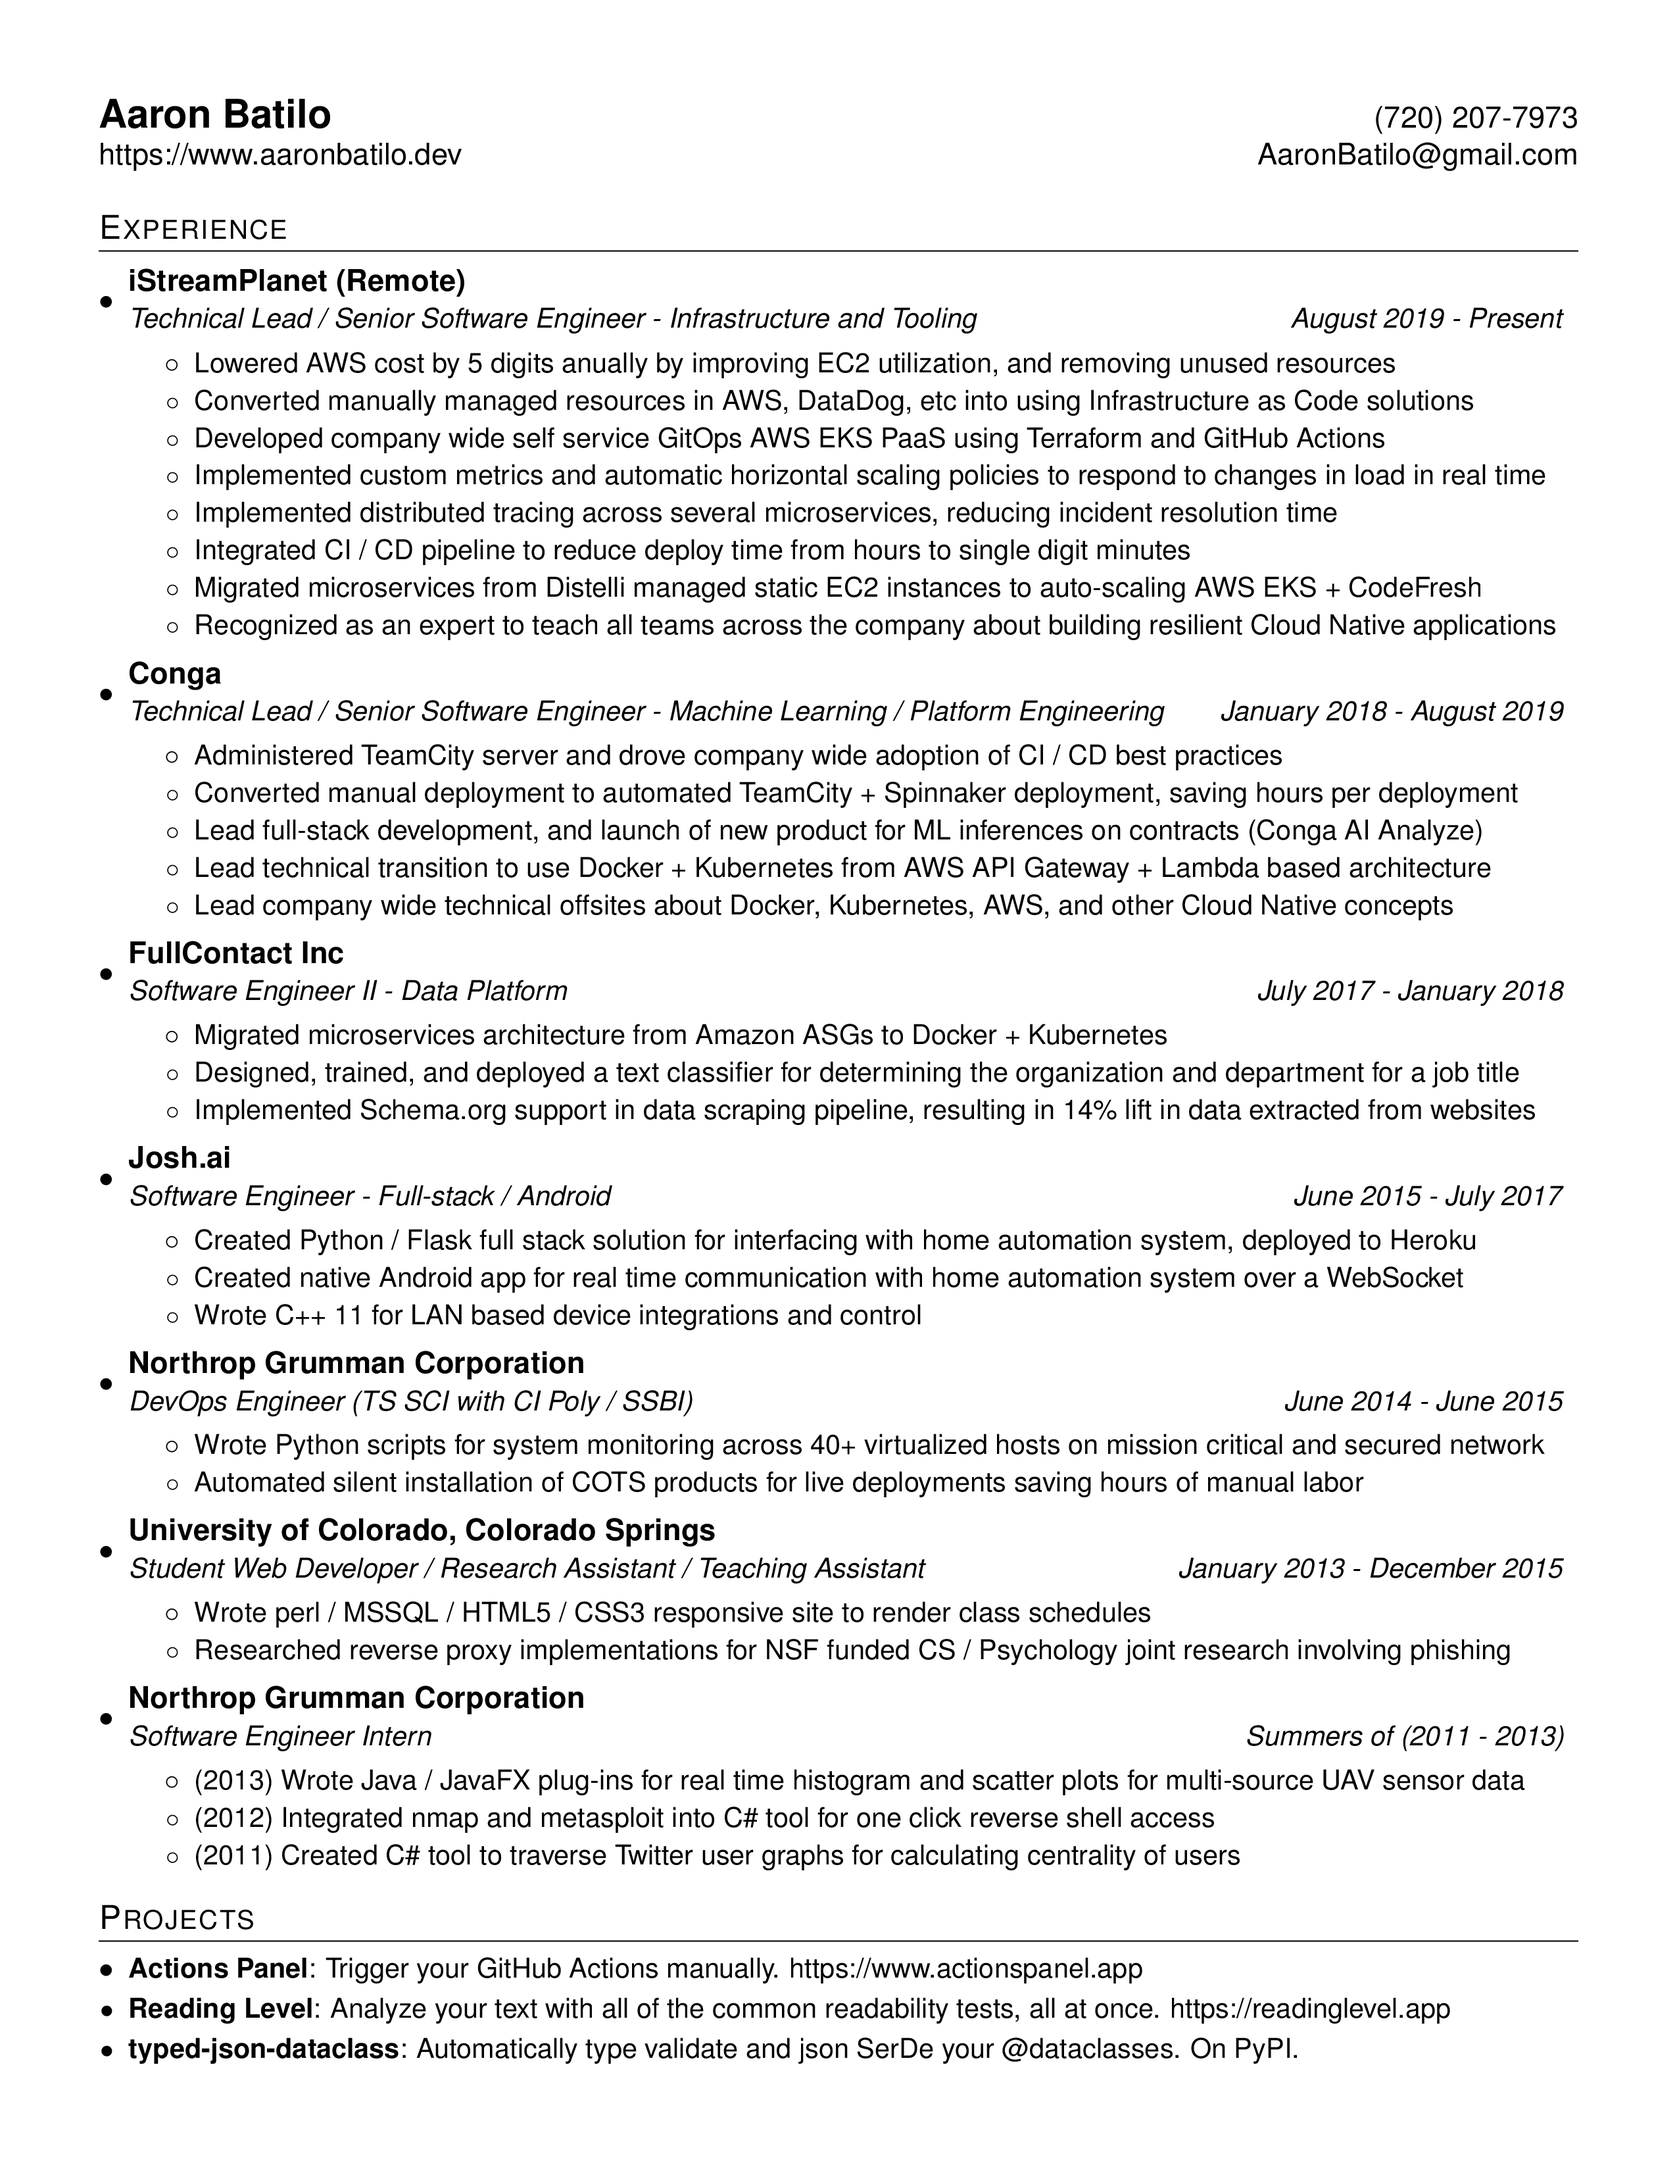
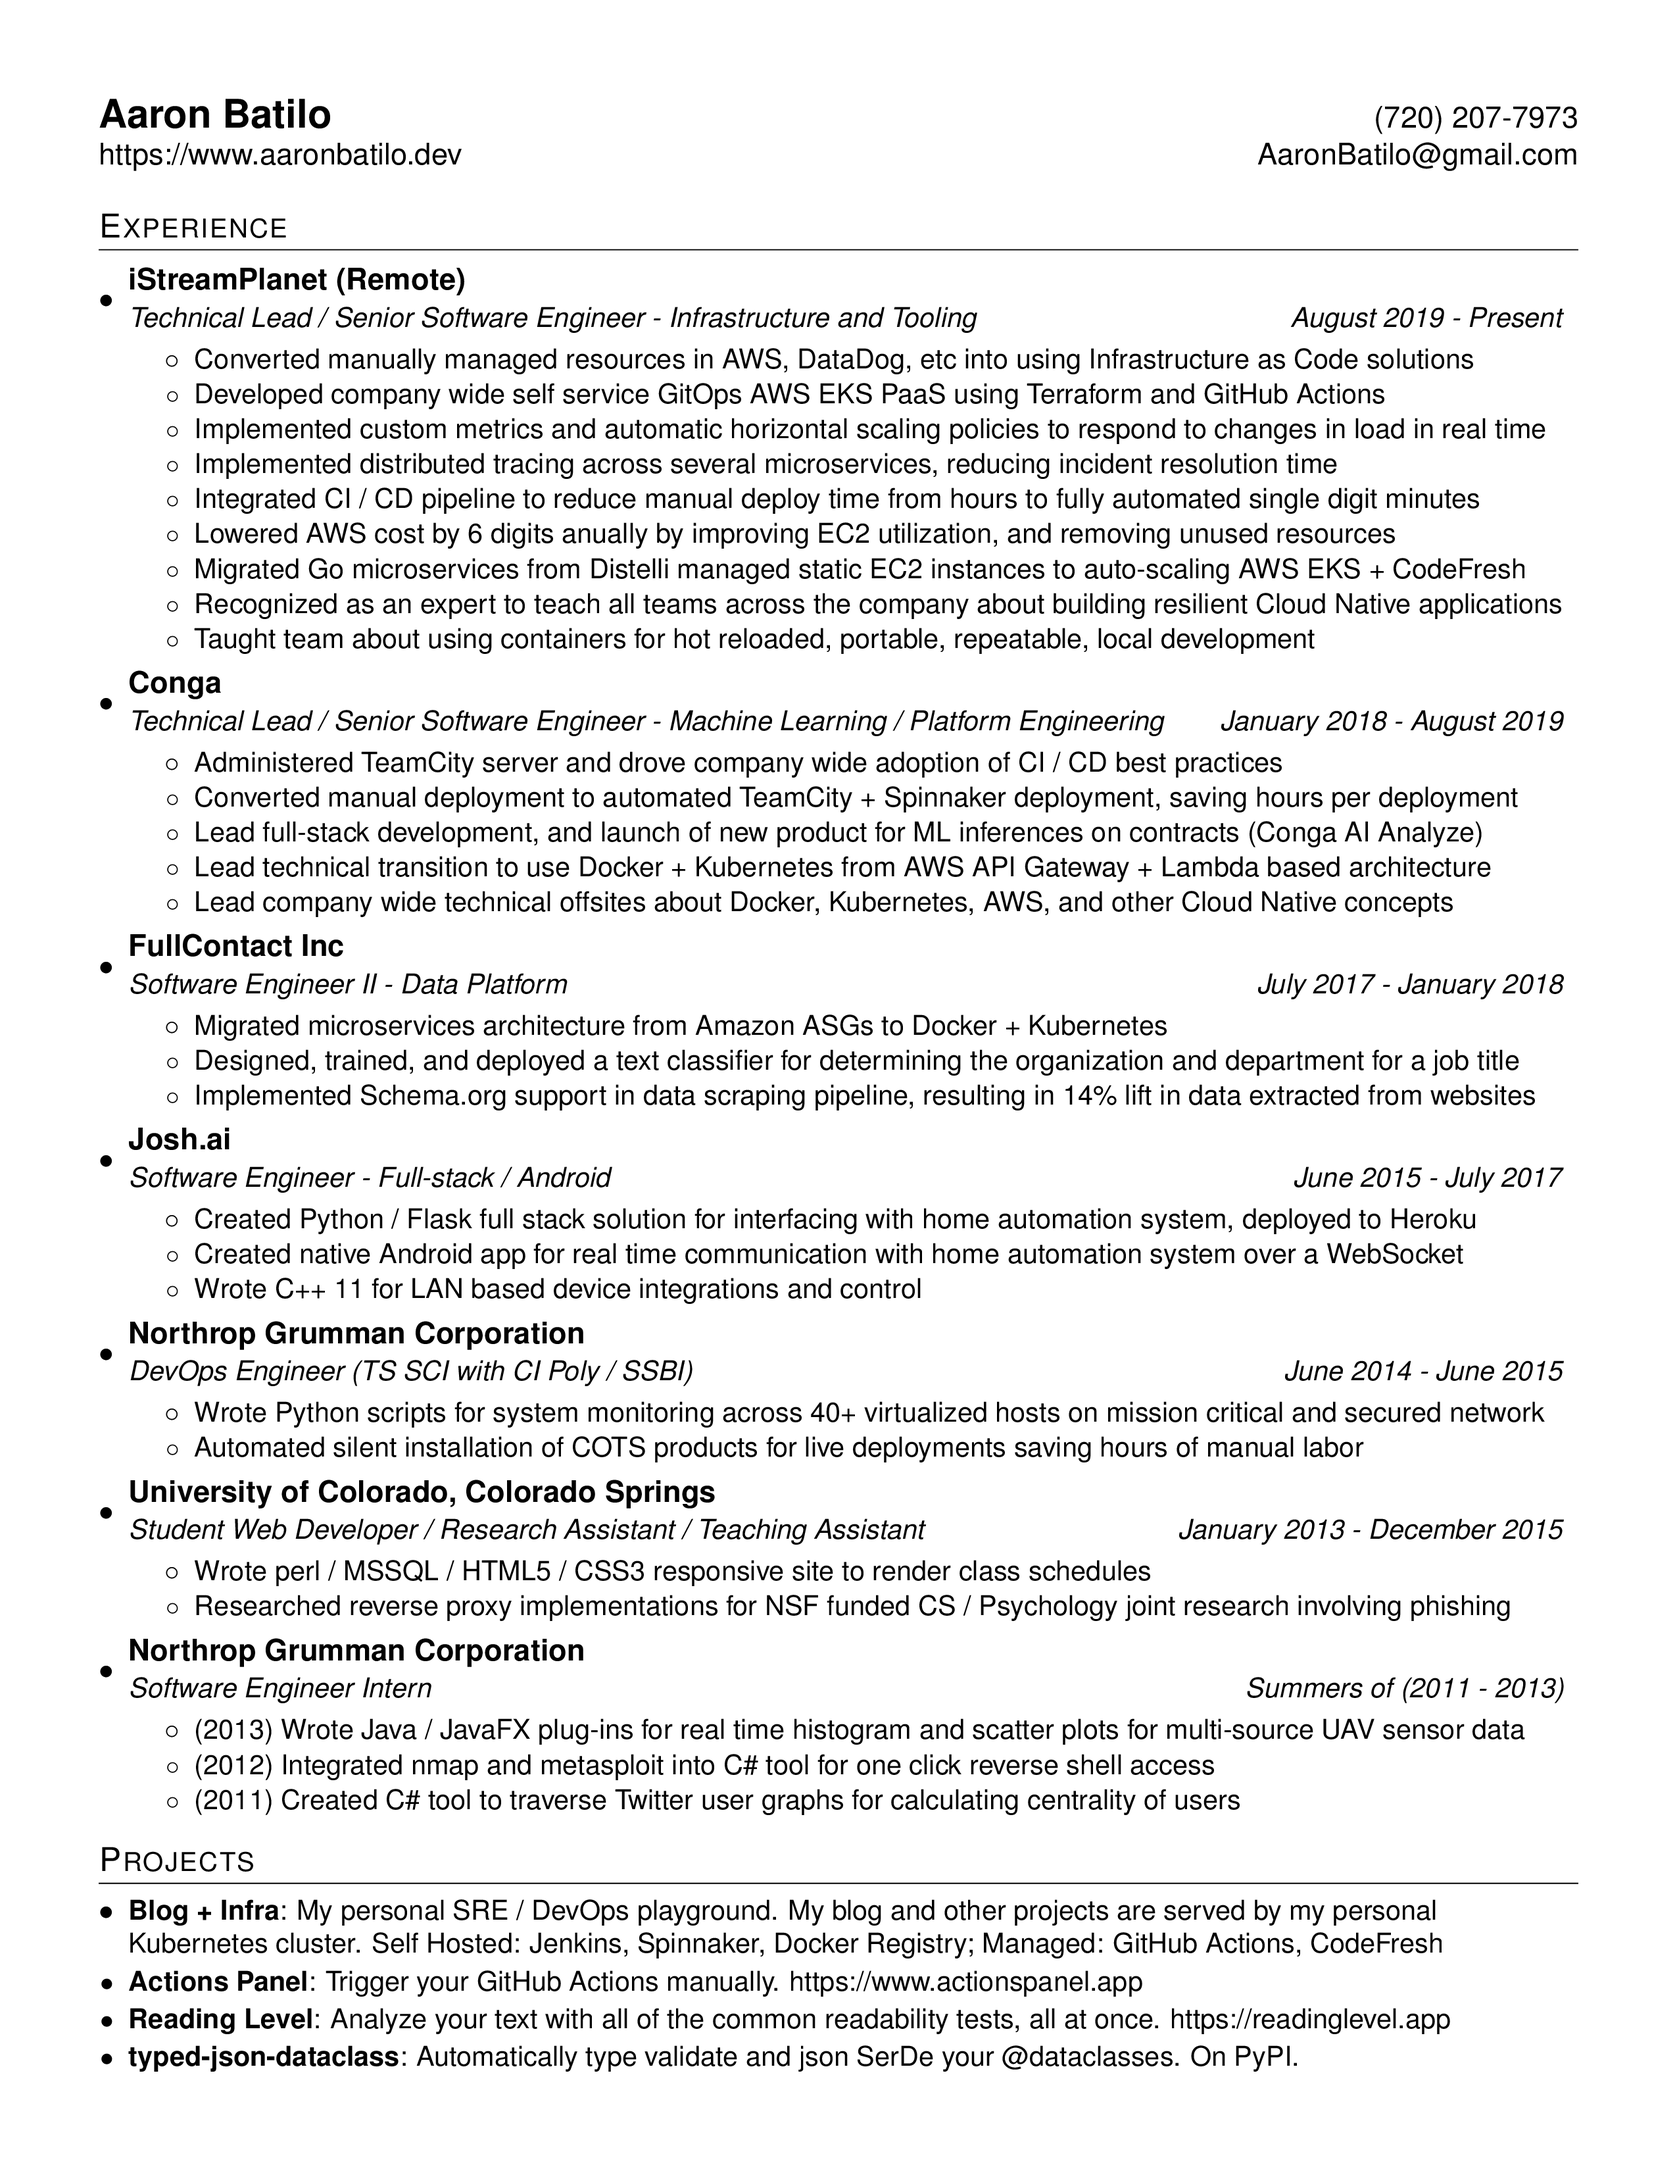
Add info about my blog and personal infra

Changed region(s): [[0.062, 0.0936, 0.9294, 0.9676]]

diff --git a/resume.tex b/resume.tex
@@ -95,14 +95,15 @@
       {iStreamPlanet (Remote)}
       {Technical Lead / Senior Software Engineer - Infrastructure and Tooling}{August 2019 - Present}
       \resumeItemListStart
-        \resumeItemNoBold {Lowered AWS cost by 5 digits anually by improving EC2 utilization, and removing unused resources}
         \resumeItemNoBold {Converted manually managed resources in AWS, DataDog, etc into using Infrastructure as Code solutions}
         \resumeItemNoBold {Developed company wide self service GitOps AWS EKS PaaS using Terraform and GitHub Actions}
         \resumeItemNoBold {Implemented custom metrics and automatic horizontal scaling policies to respond to changes in load in real time}
         \resumeItemNoBold {Implemented distributed tracing across several microservices, reducing incident resolution time}
-        \resumeItemNoBold {Integrated CI / CD pipeline to reduce deploy time from hours to single digit minutes}
-        \resumeItemNoBold {Migrated microservices from Distelli managed static EC2 instances to auto-scaling AWS EKS + CodeFresh}
+        \resumeItemNoBold {Integrated CI / CD pipeline to reduce manual deploy time from hours to fully automated single digit minutes}
+        \resumeItemNoBold {Lowered AWS cost by 6 digits anually by improving EC2 utilization, and removing unused resources}
+        \resumeItemNoBold {Migrated Go microservices from Distelli managed static EC2 instances to auto-scaling AWS EKS + CodeFresh}
         \resumeItemNoBold {Recognized as an expert to teach all teams across the company about building resilient Cloud Native applications}
+        \resumeItemNoBold {Taught team about using containers for hot reloaded, portable, repeatable, local development}
 
         % \resumeItemNoBold {Placeholder, there's room for more bullets without going to two pages}
         % \resumeItemNoBold {Placeholder, there's room for more bullets without going to two pages}
@@ -173,6 +174,10 @@
 %-----------PROJECTS-----------------
 \section{Projects}
   \resumeSubHeadingListStart
+  \resumeSubItem{\href{https://www.aaronbatilo.dev}{Blog + Infra}}
+    {My personal SRE / DevOps playground. My blog and other projects are served by my
+      personal Kubernetes cluster. Self hosted: Jenkins,
+      Spinnaker, Docker Registry; Managed: GitHub Actions, CodeFresh}
   \resumeSubItem{\href{https://www.actionspanel.app}{Actions Panel}}
     {Trigger your GitHub Actions manually.
       \href{https://www.actionspanel.app}{https://www.actionspanel.app}}
